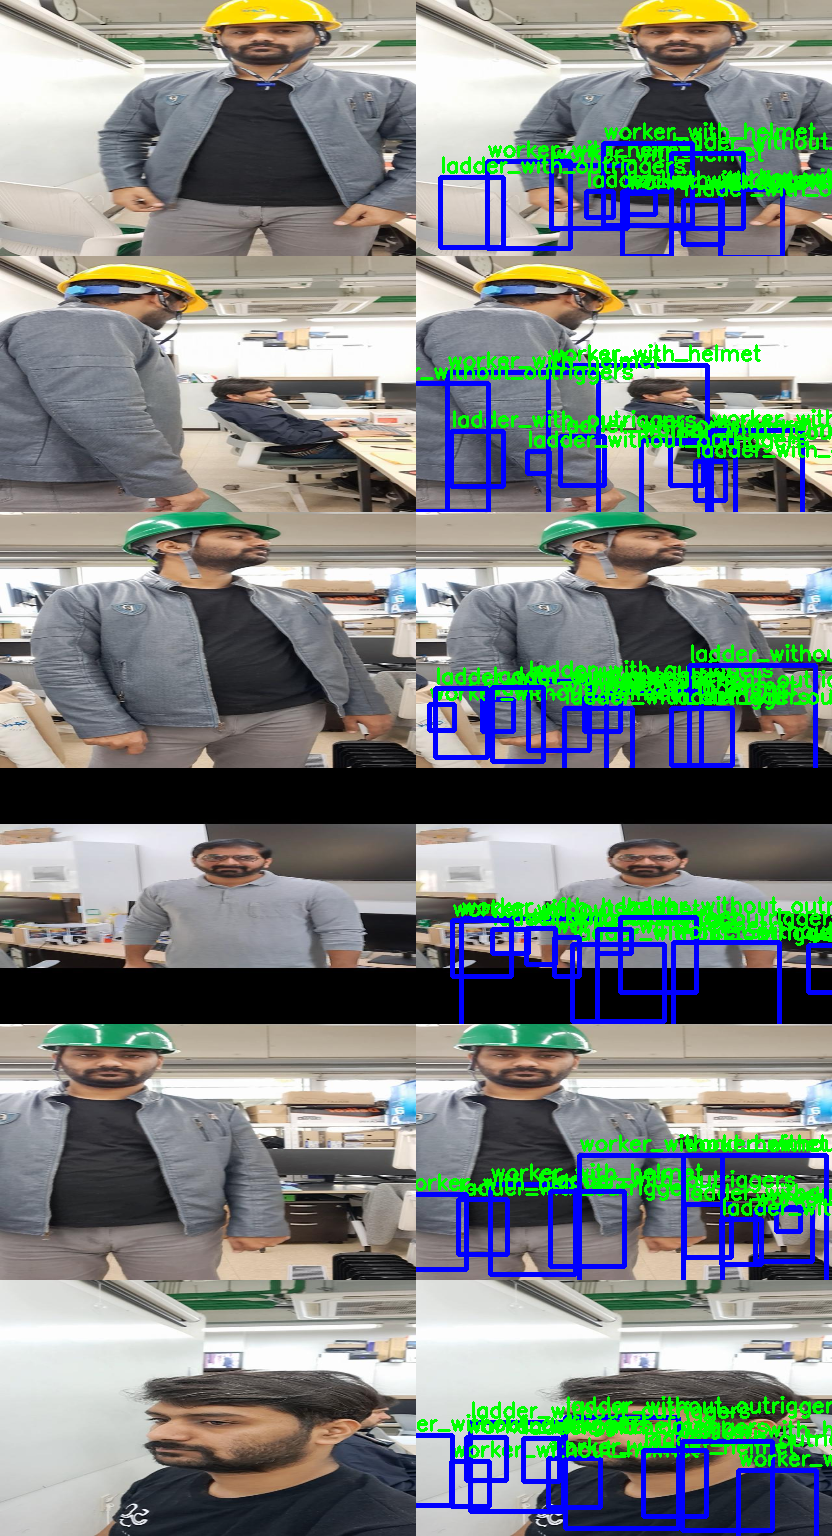
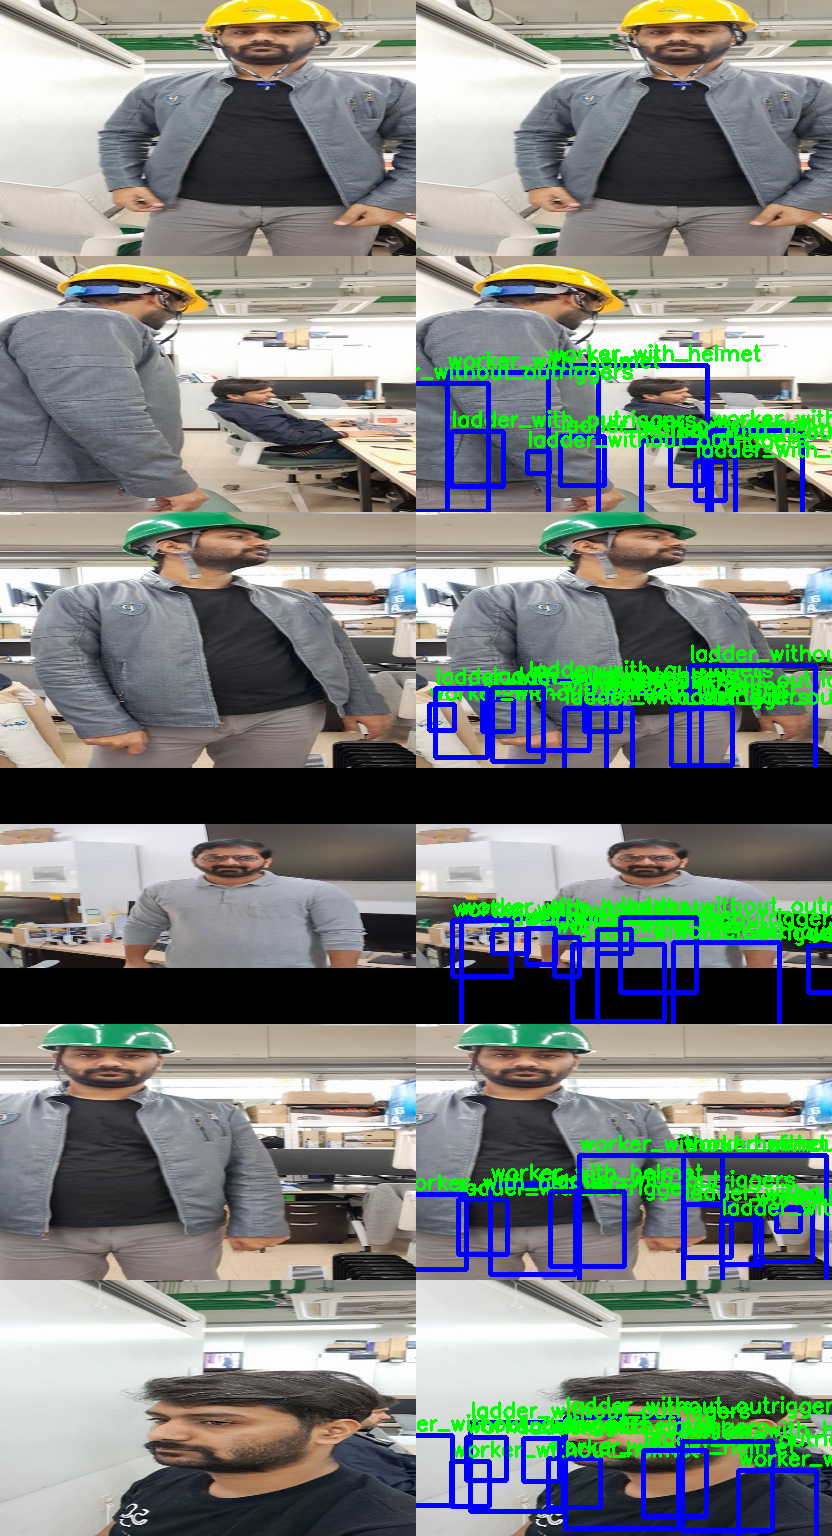
aug 25 started changing postprocessing-not completed yet_0

Changed region(s): [[0.5312, 0.0625, 1.0, 0.1875], [0.5, 0.125, 0.5312, 0.1562]]

diff --git a/July_30_PPE_RT_copy/J_30_inference_running_ppe.py b/July_30_PPE_RT_copy/J_30_inference_running_ppe.py
@@ -294,50 +294,43 @@ def inference(args):
                 print(f"DEBUG: Output {i} dtype: {output.dtype}")
                 print(f"DEBUG: Output {i} range: {output.min():.3f} to {output.max():.3f}")
                 print(f"DEBUG: Output {i} sample values: {output.flatten()[:10]}")
-      
+           
+            # PASS RAW ONNX OUTPUTS TO POST-PROCESSOR (First Step)
+            print("DEBUG: Passing raw ONNX outputs to post-processor...")
+            
+            
+                       # Store raw outputs for post-processor to handle
+            args.ret = {'raw_onnx_outputs': outputs}
+            
+            # TEMPORARY: Create 'buf' with flattened ONNX outputs for compatibility
+            # This preserves real data instead of using dummy data
+            all_outputs_flat = np.concatenate([output.flatten() for output in outputs])
+            args.ret['buf'] = all_outputs_flat.astype(np.float32)
+            
+            # CRITICAL: Update n_grid to match the actual flattened output size
+            args.post.n_grid = all_outputs_flat.size // 8
+            print(f"DEBUG: FIXED n_grid to {args.post.n_grid} for flattened output size {all_outputs_flat.size}")
+            
+            print(f"DEBUG: Number of raw outputs: {len(outputs)}")
+            for i, output in enumerate(outputs):
+                print(f"DEBUG: Output {i} shape: {output.shape}")
+            
+            # Calculate expected total size for compatibility
+            total_elements = sum(np.prod(output.shape) for output in outputs)
+            print(f"DEBUG: Total elements in all outputs: {total_elements}")
+            print(f"DEBUG: Created buf with {all_outputs_flat.size} elements from real ONNX data")
 
-            # PROPER MULTI-SCALE YOLO OUTPUT PROCESSING
-            print("DEBUG: Processing multi-scale YOLO outputs...")
-            
-            # Process each scale (3 scales total)
-            scales_data = []
-            for scale_idx in range(0, len(outputs), 2):  # Process pairs: (0,1), (2,3), (4,5)
-                if scale_idx + 1 < len(outputs):
-                    box_output = outputs[scale_idx]      # Box coordinates
-                    conf_output = outputs[scale_idx + 1] # Class confidences (logits)
-                    
-                    print(f"DEBUG: Scale {scale_idx//2} - Box shape: {box_output.shape}, Conf shape: {conf_output.shape}")
-                    
-                    # Apply sigmoid to confidence logits
-                    conf_probs = 1 / (1 + np.exp(-np.clip(conf_output, -500, 500)))
-                    print(f"DEBUG: Scale {scale_idx//2} - Conf after sigmoid: {conf_probs.min():.3f} to {conf_probs.max():.3f}")
-                    
-                    # Combine box + confidence: (batch, 8, height, width)
-                    combined = np.concatenate([box_output, conf_probs], axis=1)
-                    print(f"DEBUG: Scale {scale_idx//2} - Combined shape: {combined.shape}")
-                    
-                    # Flatten and append
-                    scales_data.append(combined.flatten())
-            
-            # Concatenate all scales
-            output_data = np.concatenate(scales_data)
-            print(f"DEBUG: Final combined output size: {output_data.size}")
-            print(f"DEBUG: Final output range: {output_data.min():.3f} to {output_data.max():.3f}")
+            print(f"DEBUG: Total elements in all outputs: {total_elements}")
 
-            args.ret = {'buf': output_data}
-            
             print(f"TRACE: ONNX CPU inference complete!", flush=True)
-            print(f"TRACE: Output size: {output_data.size} (expected: 8736)", flush=True)
             
-            # Update post-processing configuration for multi-scale output
-            args.post.n_grid = output_data.size // 8
-            print(f"INFO: Updated n_grid to {args.post.n_grid} for multi-scale YOLO output")
-
+            
+            
             # Check if size matches expectation and adjust
 
 
 
-            print(f"TRACE: ONNX CPU inference complete!", flush=True)
+            
             print(f"TRACE: Output size: {output_data.size} (expected: 8736)", flush=True)
             
             # Check if size matches expectation and adjust
@@ -375,13 +368,6 @@ def inference(args):
 
 
         # Convert raw output buffer to float32 for post-processing
-        try:
-            output_data = args.ret['buf'].view(np.float32)
-            print(f"TRACE: inference -> output_data size: {output_data.size}", flush=True)
-        except Exception as e:
-            print(f"ERROR: failed to convert output buffer to float32: {e}", flush=True)
-            raise
-                # Convert raw output buffer to float32 for post-processing
         try:
             output_data = args.ret['buf'].view(np.float32)
             print(f"TRACE: inference -> output_data size: {output_data.size}", flush=True)
